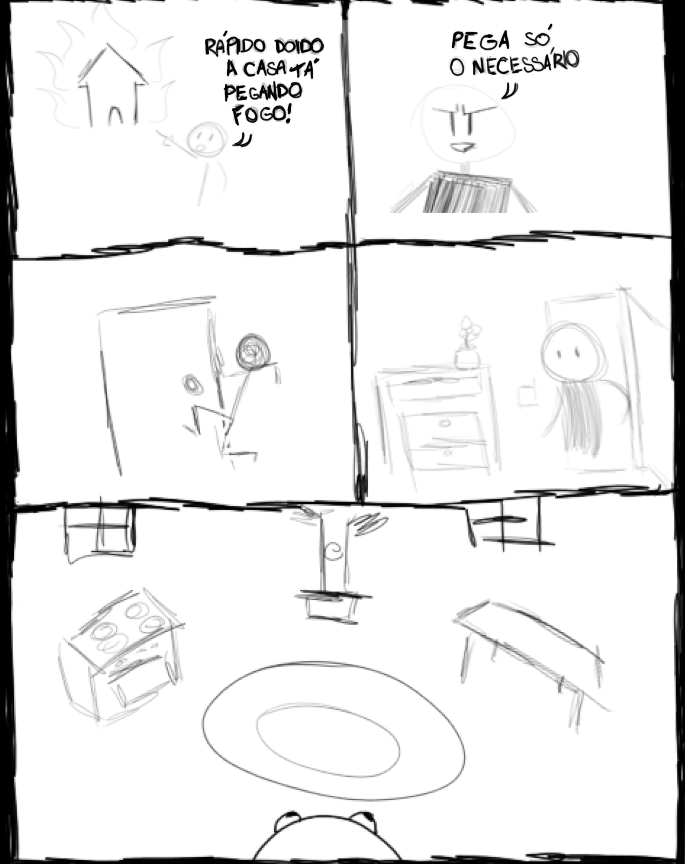
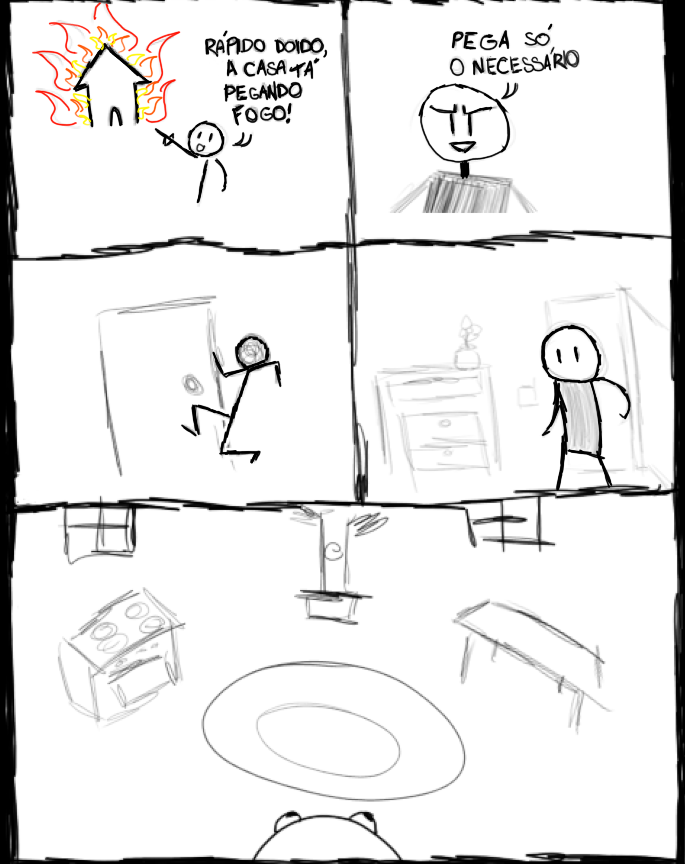
atualiza prototipo 2

diff --git a/pages/02.html b/pages/02.html
@@ -85,6 +85,19 @@
             width: 100%;
             margin: 0 auto;
         }
+
+        .coletado {
+            position: absolute;
+            display: none;
+            width: 150px;
+            animation: gelatine 0.5s infinite;
+        }
+        @keyframes gelatine {
+            from, to { transform: scale(1, 1); }
+            25% { transform: scale(0.9, 1.1); }
+            50% { transform: scale(1.1, 0.9); }
+            75% { transform: scale(0.95, 1.05); }
+        }
     </style>
 </head>
 <body>
@@ -103,6 +116,7 @@
             <img src="../imgs/02/gato3.png" class="gato" id="gato3" alt="">
         </div>
     </main>
+    <img src="../imgs/02/coletado.png" class="coletado" alt="">
     <script>
     const gatos = document.querySelectorAll(".gato");
     const inventario = [];
@@ -111,8 +125,23 @@
     gatos.forEach((gato) => {
         gato.addEventListener("click", () => {
             if (!executado) {
+                const posicao = gato.getBoundingClientRect();
                 gato.style.display = "none";
                 inventario.push(gato);
+
+                const coletado = document.createElement("img");
+                coletado.classList.add("coletado");
+                coletado.src = "../imgs/02/coletado.png";
+                document.body.appendChild(coletado);
+                
+                coletado.style.display = "block";
+                coletado.style.left = `${(posicao.left + window.scrollX)-30}px`;
+                coletado.style.top = `${posicao.top + window.scrollY}px`;
+
+                
+                setTimeout(() => {
+                    coletado.style.display = "none";
+                }, 1000);
             }
         });
     });
